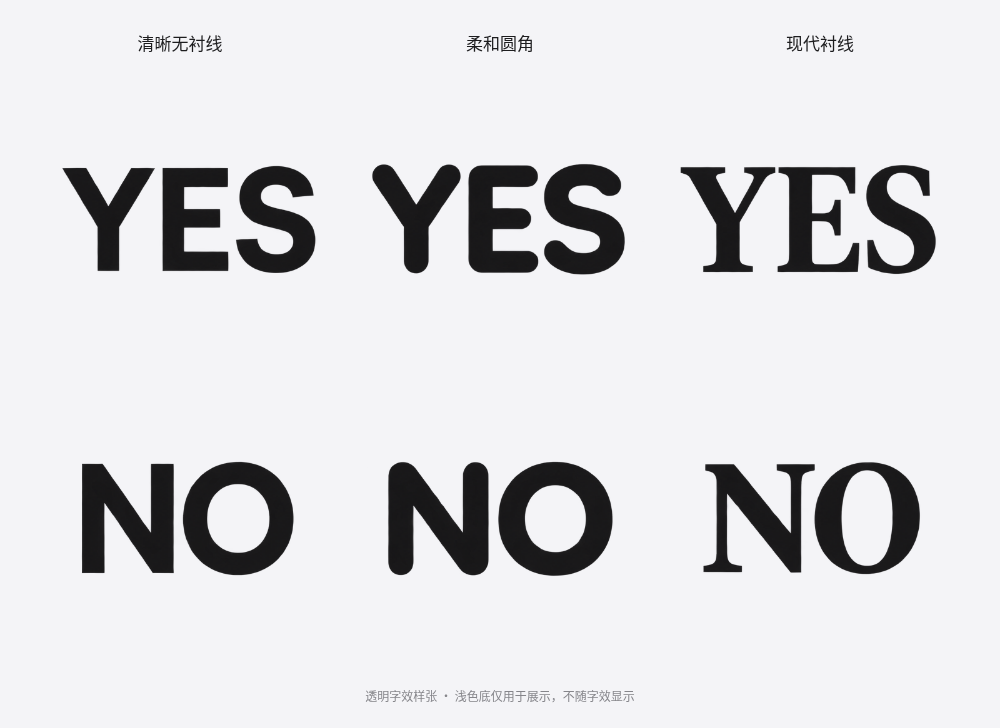
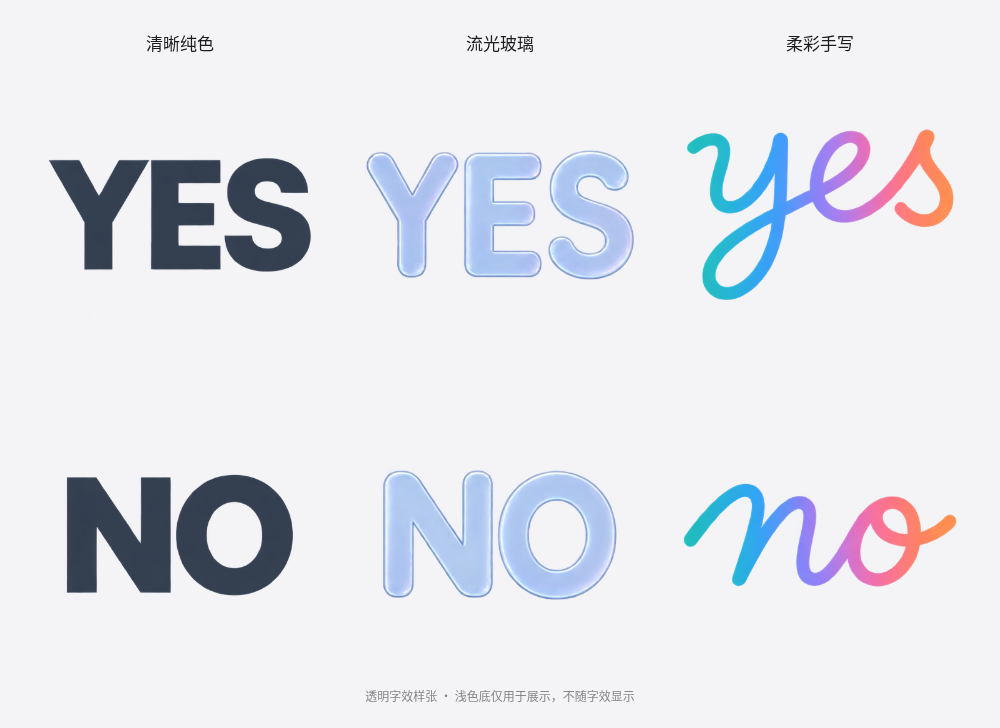
style: coordinate glass and welcome-script colors with the light theme

diff --git a/gamebar/VerdictView.cs b/gamebar/VerdictView.cs
@@ -127,7 +127,7 @@ namespace BlinkVerdict.GameBar
 
         private async Task SetArtAsync(JsonObject message, bool show)
         {
-            art.Visibility = Visibility.Collapsed; result.Visibility = Visibility.Visible;
+            art.Visibility = Visibility.Collapsed; result.Visibility = Visibility.Visible; art.Clip = null;
             content.Width = content.Height = double.NaN; content.Clip = null;
             fit.MaxHeight = double.PositiveInfinity;
             if (!show) return;
@@ -157,7 +157,12 @@ namespace BlinkVerdict.GameBar
                 content.Width = content.Height = 512;
                 content.Clip = new RectangleGeometry { Rect = new Rect(0, 0, 512, 512) };
                 art.Width = 1536; art.Height = 1024;
-                art.RenderTransform = new TranslateTransform { X = -column * 512, Y = -row * 512 };
+                // Clip before translation so neighboring sprites cannot enter the cell.
+                art.Clip = new RectangleGeometry { Rect = new Rect(column * 512, row * 512, 512, 512) };
+                art.RenderTransform = new TranslateTransform {
+                    X = -column * 512 + message.GetNamedNumber("artOffsetX", 0) * 512,
+                    Y = -row * 512 + message.GetNamedNumber("artOffsetY", 0) * 512
+                };
                 art.Source = new BitmapImage(new Uri("ms-appx:///Assets/wordart.png"));
             }
             fit.MaxHeight = result.FontSize * 3;

diff --git a/src/windows/art.rs b/src/windows/art.rs
@@ -9,6 +9,29 @@ pub struct Art {
     pub height: u32,
     pub bgra: Vec<u8>,
     pub source: [f32; 4],
+    pub offset: [f32; 2],
+}
+
+/// Fixed optical centers for the generated atlas. Fractions of a 512px cell;
+/// custom images keep their own framing. No runtime alpha scan is needed.
+pub fn atlas_offset(config: &Config, text: &str) -> [f32; 2] {
+    if config.option_images.contains_key(text) {
+        return [0.0, 0.0];
+    }
+    let column = match config.theme.art_style {
+        ArtStyle::Ink => 0,
+        ArtStyle::Cyberpunk => 1,
+        ArtStyle::Graffiti => 2,
+        ArtStyle::Plain => return [0.0, 0.0],
+    };
+    let pixels = if text.eq_ignore_ascii_case("YES") {
+        [[-11.0, -36.5], [0.5, -39.0], [21.0, -86.0]][column]
+    } else if text.eq_ignore_ascii_case("NO") {
+        [[-12.5, 56.0], [-5.5, 54.0], [12.0, 44.5]][column]
+    } else {
+        return [0.0, 0.0];
+    };
+    [pixels[0] / 512.0, pixels[1] / 512.0]
 }
 
 /// Decode only while a result is visible; no full-atlas pixel buffer or embedded PNG copy.
@@ -58,6 +81,7 @@ pub fn load(config: &Config, text: &str) -> Option<Art> {
         width: pixels.width,
         height: pixels.height,
         source: [0.0, 0.0, pixels.width as f32, pixels.height as f32],
+        offset: atlas_offset(config, text),
         bgra: pixels.bgra,
     })
 }

diff --git a/src/windows/render.rs b/src/windows/render.rs
@@ -16,7 +16,7 @@ use windows::{
 pub struct Renderer {
     target: ID2D1DCRenderTarget,
     write: IDWriteFactory,
-    art: Option<(ID2D1Bitmap, D2D_RECT_F)>,
+    art: Option<(ID2D1Bitmap, D2D_RECT_F, [f32; 2])>,
     hwnd: HWND,
     surface: Surface,
 }
@@ -145,6 +145,7 @@ impl Renderer {
                             right: image.source[2],
                             bottom: image.source[3],
                         },
+                        image.offset,
                     )
                 })
         });
@@ -233,12 +234,14 @@ impl Renderer {
             M31: cx * (1.0 - motion.scale),
             M32: cy * (1.0 - motion.scale) + motion.offset_y,
         });
-        if let Some((bitmap, source)) = &self.art {
+        if let Some((bitmap, source, offset)) = &self.art {
             let ratio = (source.right - source.left) / (source.bottom - source.top);
             let height = (font_size * 3.0)
                 .min(rect.bottom - rect.top)
                 .min((rect.right - rect.left) / ratio);
             let width = height * ratio;
+            let cx = cx + offset[0] * width;
+            let cy = cy + offset[1] * height;
             let destination = D2D_RECT_F {
                 left: cx - width / 2.0,
                 top: cy - height / 2.0,

diff --git a/src/windows/gamebar.rs b/src/windows/gamebar.rs
@@ -73,6 +73,7 @@ impl Bridge {
         } else {
             String::new()
         };
+        let offset = super::art::atlas_offset(config, text);
         (|| -> Result<bool> {
             let payload = serde_json::json!({
                 "action": action, "text": text,
@@ -84,6 +85,7 @@ impl Bridge {
                 "fontSize": if config.mode == DisplayMode::Fullscreen { config.theme.fullscreen_font_size } else { config.theme.widget_font_size },
                 "animation": config.theme.animation, "hotkey": config.hotkey,
                 "artStyle": config.theme.art_style, "customArt": custom_art,
+                "artOffsetX": offset[0], "artOffsetY": offset[1],
                 "width": if config.mode == DisplayMode::Fullscreen { rect.right - rect.left } else { config.widget_width },
                 "height": if config.mode == DisplayMode::Fullscreen { rect.bottom - rect.top } else { config.widget_height },
             });

diff --git a/src/windows/settings.rs b/src/windows/settings.rs
@@ -548,7 +548,7 @@ impl Settings {
                     parent,
                     340,
                     "文字风格",
-                    &["简洁文字", "清晰无衬线", "柔和圆角", "现代衬线"],
+                    &["简洁文字", "清晰纯色", "流光玻璃", "柔彩手写"],
                     match c.theme.art_style {
                         ArtStyle::Plain => 0,
                         ArtStyle::Ink => 1,

diff --git a/src/config.rs b/src/config.rs
@@ -7,9 +7,9 @@ pub enum ArtStyle {
     #[default]
     Plain,
     // Keep serialized keys stable for saved themes and the Game Bar bridge.
-    Ink,       // Clear sans
-    Cyberpunk, // Soft rounded
-    Graffiti,  // Modern serif
+    Ink,       // Clear color
+    Cyberpunk, // Tinted glass
+    Graffiti,  // Soft script
 }
 
 #[derive(Clone, Copy, Debug, Default, PartialEq, Serialize, Deserialize)]

diff --git a/assets/README.md b/assets/README.md
@@ -2,17 +2,19 @@
 
 `wordart.png` contains original generated YES/NO lettering for the light, minimal interface. It is transparent artwork, not an installable font or an embedded Apple typeface.
 
-The design was reviewed against the actual [Apple font specimens](https://developer.apple.com/fonts/), [Apple typography guidance](https://developer.apple.com/design/human-interface-guidelines/typography) and [Inter display/UI specimens](https://rsms.me/inter/) before generation. The resulting styles use clear forms and readable strokes rather than hairlines, glow or decorative backgrounds.
+The design was reviewed against the actual [Apple font specimens](https://developer.apple.com/fonts/), [Apple typography guidance](https://developer.apple.com/design/human-interface-guidelines/typography), [Liquid Glass lock-screen example](https://www.apple.com/newsroom/2025/06/apple-introduces-a-delightful-and-elegant-new-software-design/) and [Hello welcome lettering](https://www.redmondpie.com/ios-15-shows-hello-message-first-time-you-launch-it-on-iphone-or-ipad/) before generation.
+
+The three palettes coordinate with the light interface: graphite-blue, pearl/ice-blue/lilac glass, and teal/sky-blue/lavender/coral handwriting. Glass is a prerendered visual inside the letters; it does not sample or refract the live desktop. Empty areas stay transparent.
 
 | Column | Visible preset | Saved key retained for compatibility |
 |---|---|---|
-| 0 | 清晰无衬线 / Clear sans | `Ink` |
-| 1 | 柔和圆角 / Soft rounded | `Cyberpunk` |
-| 2 | 现代衬线 / Modern serif | `Graffiti` |
+| 0 | 清晰纯色 / Clear color | `Ink` |
+| 1 | 流光玻璃 / Tinted glass | `Cyberpunk` |
+| 2 | 柔彩手写 / Soft script | `Graffiti` |
 
 - Canvas: 1536 × 1024 RGBA, three columns, two rows; YES above NO.
-- Every source cell remains 512 × 512. Native Direct2D and Game Bar use the same atlas and crop layout. No new rendering path, dependency or idle work.
-- The generated source is preserved at `generated_images/exec-60a2c591-4144-4418-a544-0daf8fb6dad9.png` in the session workspace. Packaging clears RGB values only where alpha is zero and compresses the PNG; visible pixels and all alpha values were verified unchanged.
+- Every source cell remains 512 × 512. Native Direct2D and Game Bar use the same atlas and crop layout. Fixed offsets in `src/windows/art.rs` center each word; the host passes those fractions to Game Bar, which clips its source cell before translation to prevent adjacent sprites appearing. There is no runtime alpha scan, new rendering dependency or idle work.
+- The generated source is preserved at `generated_images/exec-30988d9c-4148-44b3-8483-56afc801416f.png` in the session workspace. Packaging clears RGB values only where alpha is zero and compresses the PNG; visible pixels and all alpha values were verified unchanged.
 - The previous atlas is preserved verbatim as [wordart-expressive.png](archive/wordart-expressive.png). Neither executable embedding nor Game Bar content includes that archive.
 - [Documentation preview](../docs/assets/wordart-preview.png) shows the new letters on a light surface for legibility in dark-mode readers. That surface is not part of the runtime atlas.
-- Plain text, arbitrary user labels and custom PNGs keep their existing behavior. These monochrome presets use their image colors; text-color changes apply to plain text.
+- Plain text, arbitrary user labels and custom PNGs keep their existing behavior and framing. The third preset stylizes YES/NO as lowercase handwriting. Presets use their image colors; text-color changes apply to plain text.

diff --git a/README.md b/README.md
@@ -56,16 +56,16 @@
 - **浮窗背景**：在“外观”中独立调整背景不透明度，从完全透明到实色；文字清晰度不随背景改变。
 - **颜色与时长**：调整字体、文字与浮窗背景颜色、整体不透明度、字号和停留时间。
 - **位置与大小**：直接拖动、缩放悬浮组件，右键完成；也可以填写精确位置。
-- **字效与图片**：选择清晰无衬线、柔和圆角或现代衬线，或为自己的答案选择透明 PNG。
+- **字效与图片**：选择清晰纯色、流光玻璃或柔彩手写，或为自己的答案选择透明 PNG。
 
 点击“预览效果”可以先看一眼。预览不会读取屏幕或请求模型，也不会保存你的改动；点击“完成”后设置才生效。“取消”会放弃本次更改。
 
 <details>
 <summary>看看三种字效</summary>
 
-![清晰无衬线、柔和圆角、现代衬线三种透明 YES / NO 字效](docs/assets/wordart-preview.png)
+![清晰纯色、流光玻璃、柔彩手写三种透明 YES / NO 字效](docs/assets/wordart-preview.png)
 
-三组内置字效使用克制的石墨黑，适用于 YES / NO，其他答案使用你选择的字体。字效保持图片本身的配色；想自由调整文字颜色时，可选择“简洁文字”。自定义 PNG 会覆盖该答案的内置字效，保持透明背景并使用同一套动画。图片保留在原位置，移动文件后需要重新选择。
+三组内置字效适用于 YES / NO：雾蓝纯色、冰蓝淡紫的玻璃高光、青蓝至珊瑚色的手写渐变，与浅色界面相协调。其他答案使用你选择的字体。玻璃与渐变是字形内的预绘制效果，不增加后台实时渲染。字效保持图片本身的配色；想自由调整文字颜色时，可选择“简洁文字”。自定义 PNG 会覆盖该答案的内置字效，保持透明背景并使用同一套动画。图片保留在原位置，移动文件后需要重新选择。
 
 </details>
 

diff --git a/docs/validation.md b/docs/validation.md
@@ -32,6 +32,6 @@ Follow [testing.md](testing.md) and record real evidence before a release. No st
 
 ## Minimal word-art follow-up
 
-The new clear sans, rounded and serif YES/NO atlas follows a review of the actual Apple font specimens, Apple typography guidance and Inter specimens. The generated source remains in the workspace; the previous expressive atlas is archived outside embedded/package content. The runtime PNG decreased from 2,549,678 to 273,713 bytes. Packaging preserved every nontransparent RGBA pixel and every alpha value; all six 512-pixel cells contain glyphs with clear margins on a 1536 × 1024 canvas. The light-backed documentation specimen is a presentation of the transparent artwork, not a screenshot of the running application.
+The new clear-color, tinted-glass and gradient-script YES/NO atlas follows a review of actual Apple typography, Liquid Glass lock-screen and Hello welcome specimens. The generated source remains in the workspace; the previous expressive atlas is archived outside embedded/package content. The runtime PNG decreased from 2,549,678 to 533,967 bytes. Packaging preserved every nontransparent RGBA pixel and every alpha value; all six 512-pixel cells contain glyphs with clear margins on a 1536 × 1024 canvas. Fixed optical offsets center each word without runtime alpha scanning; the same host-provided offsets and cell clipping are used by the optional component. Glass/gradients are prerendered artwork, not live desktop refraction. The light-backed documentation specimen is a presentation of the transparent artwork, not a screenshot of the running application.
 
 Windows-GNU all-target compilation and four existing portable core groups passed locally. No new tests or broad release suite. The normal Windows checks also compile the optional component because its embedded artwork changed; actual small-widget/focus behavior remains part of the Windows release matrix.

diff --git a/CHANGELOG.md b/CHANGELOG.md
@@ -2,7 +2,7 @@
 
 ## 0.1.0 — Unreleased development preview
 
-- Replace the expressive YES/NO presets with clear sans, soft rounded and modern serif lettering, informed by actual Apple/Inter specimens. Preserve saved preset keys and archive the previous artwork outside packaged assets.
+- Replace the expressive YES/NO presets with clear graphite-blue, softly tinted glass and welcome-style gradient script lettering, informed by actual Apple typography, Liquid Glass and Hello examples. Preserve saved preset keys and archive the previous artwork outside packaged assets.
 
 - Light grouped settings inspired by the supplied ChatGPT iOS references: three main sections, white grouped rows, outline icons, compact navigation and quiet window chrome.
 - First-run model → decision setup; click-and-press shortcut recording, color pickers, secondary pages for advanced options, and direct widget layout editing.
